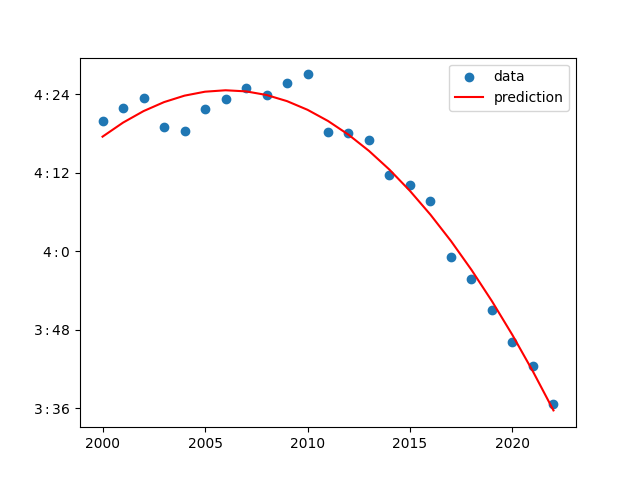
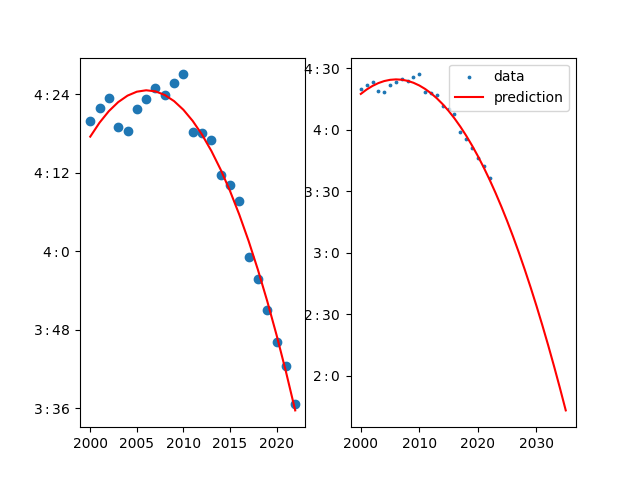
Readme is done, changes done to prediction visualisations

diff --git a/src/ml.py b/src/ml.py
@@ -6,9 +6,7 @@ import pandas as pd
 import os.path
 import matplotlib.pyplot as plt
 from sklearn.linear_model import LinearRegression
-from sklearn.model_selection import train_test_split
 from sklearn.preprocessing import PolynomialFeatures
-from sklearn.metrics import mean_squared_error
 
 
 my_path = os.path.abspath(os.path.dirname(__file__))
@@ -60,6 +58,8 @@ def plot_popgenres():
 
     popgenres = ['pop', 'hip-hop', 'dance', 'k-pop']
 
+    fig, (ax1, ax2) = plt.subplots(nrows=1, ncols=2)
+
     for genre in popgenres:
         X = np.asarray(popgenres_df.loc[popgenres_df['genre'] == genre]['year'])
         y = np.asarray(popgenres_df.loc[popgenres_df['genre'] == genre]['mean'])
@@ -70,8 +70,16 @@ def plot_popgenres():
         poly_reg_model.fit(poly_features, y)
         y_predicted = poly_reg_model.predict(poly_features)
 
-        plt.scatter(X, y, label=f"{genre}", s=2)
-        plt.plot(X, y_predicted, label=f"{genre} pred")
+        x2, x1, b = np.polyfit(X, y_predicted, 2)
+        pred_X = np.concatenate([X, np.asarray(range(2023, 2036))])
+
+        extra_y = [x2*i*i + x1*i + b for i in pred_X]
+
+        ax1.scatter(X, y, label=f"{genre}", s=2)
+        ax1.plot(X, y_predicted, label=f"{genre} pred")
+
+        ax2.scatter(X, y, label=f"{genre}", s=2)
+        ax2.plot(pred_X, extra_y, label=f"{genre} pred")
 
     plt.legend()
 
@@ -118,6 +126,8 @@ def plot_valence():
 
     popgenres = ['hip-hop', 'dance', 'pop', 'k-pop']
 
+    fig, (ax1, ax2) = plt.subplots(nrows=1, ncols=2)
+
     for genre in popgenres:
         X = np.asarray(valence_df.loc[valence_df['genre'] == genre]['year'])
         y = np.asarray(valence_df.loc[valence_df['genre'] == genre]['mean_valence'])
@@ -128,13 +138,21 @@ def plot_valence():
         poly_reg_model.fit(poly_features, y)
         y_predicted = poly_reg_model.predict(poly_features)
 
-        plt.scatter(X, y, label=f"{genre}", s=2)
-        plt.plot(X, y_predicted, label=f"{genre} pred")
+        x3, x2, x1, b = np.polyfit(X, y_predicted, 3)
+        pred_X = np.concatenate([X, np.asarray(range(2023, 2028))])
+
+        extra_y = [x3*i*i*i + x2*i*i + x1*i + b for i in pred_X]
+
+        ax1.scatter(X, y, label=f"{genre}", s=2)
+        ax1.plot(X, y_predicted, label=f"{genre} pred")
+
+        ax2.scatter(X, y, label=f"{genre}", s=2)
+        ax2.plot(pred_X, extra_y, label=f"{genre} pred")
 
     plt.legend()
 
     # Uncomment the following to create a png file of the plot
-    # plt.savefig('../results/ml/pred2.png')
+    plt.savefig('../results/ml/pred2.png')
 
     plt.show()
 
@@ -156,7 +174,7 @@ def plot_short():
     X = np.asarray(short_df['year'])
     y = np.asarray(short_df['mean_duration'])
 
-    fig, ax = plt.subplots()
+    fig, (ax1, ax2) = plt.subplots(nrows=1, ncols=2)
     fig.canvas.draw()
 
     poly = PolynomialFeatures(degree=2, include_bias=False)
@@ -165,16 +183,30 @@ def plot_short():
     poly_reg_model.fit(poly_features, y)
     y_predicted = poly_reg_model.predict(poly_features)
 
-    ax.scatter(X, y, label="data")
-    ax.plot(X, y_predicted, label="prediction", c="red")
+    x2, x1, b = np.polyfit(X, y_predicted, 2)
+    pred_X = np.concatenate([X, np.asarray(range(2023, 2036))])
 
-    labels = ax.get_yticks().tolist()
+    extra_y = [x2 * i * i + x1 * i + b for i in pred_X]
+
+    ax1.scatter(X, y, label="data")
+    ax1.plot(X, y_predicted, label="prediction", c="red")
+
+    ax2.scatter(X, y, label=f"data", s=3)
+    ax2.plot(pred_X, extra_y, label=f"prediction", c="red")
+
+    labels = ax1.get_yticks().tolist()
+    labels2 = ax2.get_yticks().tolist()
 
     for i in range(len(labels)):
         labels[i] = round(labels[i], 1)
         labels[i] = f"${math.floor(labels[i])}:${round((labels[i]%1)*60)}"
 
-    ax.set_yticklabels(labels)
+    for i in range(len(labels2)):
+        labels2[i] = round(labels2[i], 1)
+        labels2[i] = f"${math.floor(labels2[i])}:${round((labels2[i] % 1) * 60)}"
+
+    ax1.set_yticklabels(labels)
+    ax2.set_yticklabels(labels2)
 
     plt.legend()
 
@@ -188,8 +220,8 @@ def plot_tempo():
     """
         Application 4:  Are songs getting faster?
         Dataframe:      tempo_df
-        Model:          []
-        Description:    Using model [] we were able to predict the trend of tempo in music
+        Model:          Polynomial Regression
+        Description:    Using model Polynomial Regression we were able to predict the trend of tempo in music.
     """
 
     tempo_df = df[['year', 'tempo']].query("year != 2023")
@@ -207,8 +239,17 @@ def plot_tempo():
     poly_reg_model.fit(poly_features, y)
     y_predicted = poly_reg_model.predict(poly_features)
 
-    plt.scatter(X, y, label="data")
-    plt.plot(X, y_predicted, label="prediction", c="red")
+    fig, (ax1, ax2) = plt.subplots(nrows=1, ncols=2)
+    x3, x2, x1, b = np.polyfit(X, y_predicted, 3)
+    pred_X = np.concatenate([X, np.asarray(range(2023, 2036))])
+
+    extra_y = [x3*i*i*i + x2*i*i + x1*i + b for i in pred_X]
+
+    ax1.scatter(X, y, label="data")
+    ax1.plot(X, y_predicted, label="prediction", c="red")
+
+    ax2.scatter(X, y, label=f"data", s=3)
+    ax2.plot(pred_X, extra_y, label=f"prediction", c="red")
 
     plt.legend()
 

diff --git a/README.md b/README.md
@@ -37,10 +37,51 @@ predictions one can make using the given dataset:
 2) Are songs going to be more positive? (valence)
 3) Are songs getting shorter?
 4) Are songs getting faster?
-5) How to make the most popular song?
 
 We will be using the sklearn library to apply the necessary machine learning models, along with numpy, pandas and 
 matplotlib as before. The code is available in the [machine learning file](./src/ml.py), and the results can be 
 replicated again by adding the original dataset's csv file in a "data" folder at the project's source.
 
 <hr>
+
+1) To predict which genres are going to be the most popular, it is interesting to first plot the 10 most popular genres
+as a time series, and then try to predict the trend for popularity of the most rapidly increasing ones. We have thus 
+done so in the following visualisations:
+
+<img alt="figure 4" src="./results/ml/vis1.png" width="700"/>
+
+<img alt="figure 5" src="./results/ml/pred1.png" width="700"/>
+
+Using the second plot as a reference, we can see that the most popular genre and the most rapidly increasing one in 
+popularity is "pop". It is interesting to also note the rapid increase of "k-pop" which seems to have a linear increase 
+over the past 20 years. When extrapolating the predictions made by the model over the next until 2035 we see that pop 
+music is still the most popular, while hip-hop takes the lead over k-pop.
+
+2) As for the positivity of songs, we can similarly plot the average valence of the genres, and by taking the same 
+genres as in the previous prediction, we get:
+
+<img alt="figure 6" src="./results/ml/vis2.png" width="700"/>
+
+<img alt="figure 7" src="./results/ml/pred2.png" width="700"/>
+
+We thus note the seemingly decreasing in valence over the past 20 years. However, it is important to note that to better 
+fit the data, we here used a 3rd degree polynomial regression model, as we could already notice in the first 
+visualisation that the trend seems to be increasing again after around 2016-17. We can also note the stable valence of 
+k-pop over the provided dataset compared to the other 3 most popular genres. We can here again extrapolate the plot to 
+observe the quick rise in valence of hip-hop, dance and pop.
+
+3) It would also be relevant to analyse the changing length of songs over time, as genres are getting more varied. To do
+so we take the mean of the length of each song in the dataset and group by date. We obtain the following visualisations:
+
+<img alt="figure 8" src="./results/ml/pred3.png" width="700"/>
+
+While the model is limited by the low number of datapoints, we can still see that the average length of songs is 
+decreasing and may reach under three minutes in the upcoming years.
+
+4) Similarly to the song length, we can plot the average tempo of songs over the years:
+
+<img alt="figure 8" src="./results/ml/pred4.png" width="700"/>
+
+Here again, we used polynomial regression with degree 3 as it fit the datapoints best. It is important to note that, 
+while the increase seems to be exponential after around 2025, the y-axis labels show that the increase is only of a few 
+beats per minute.
